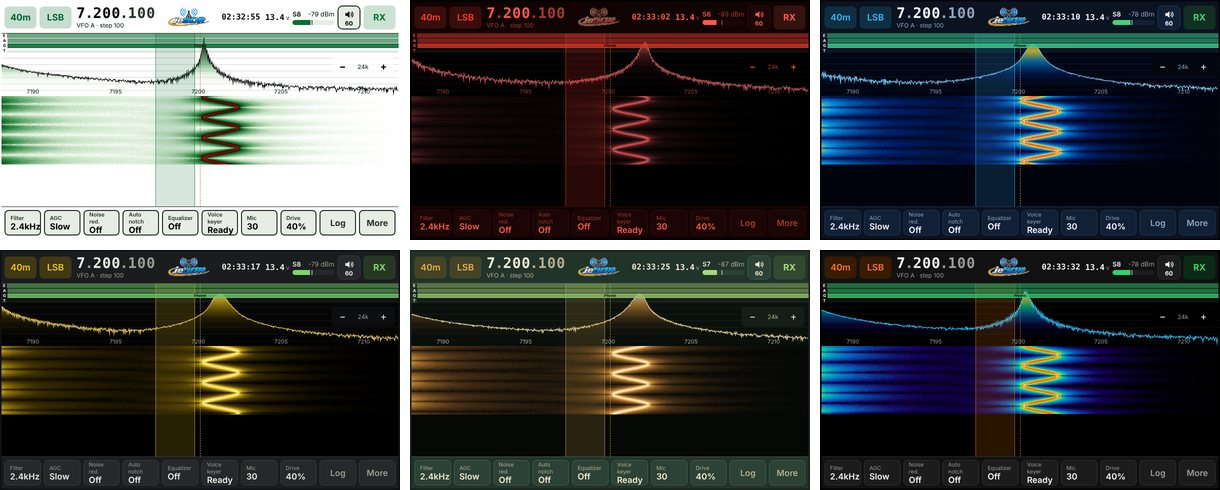
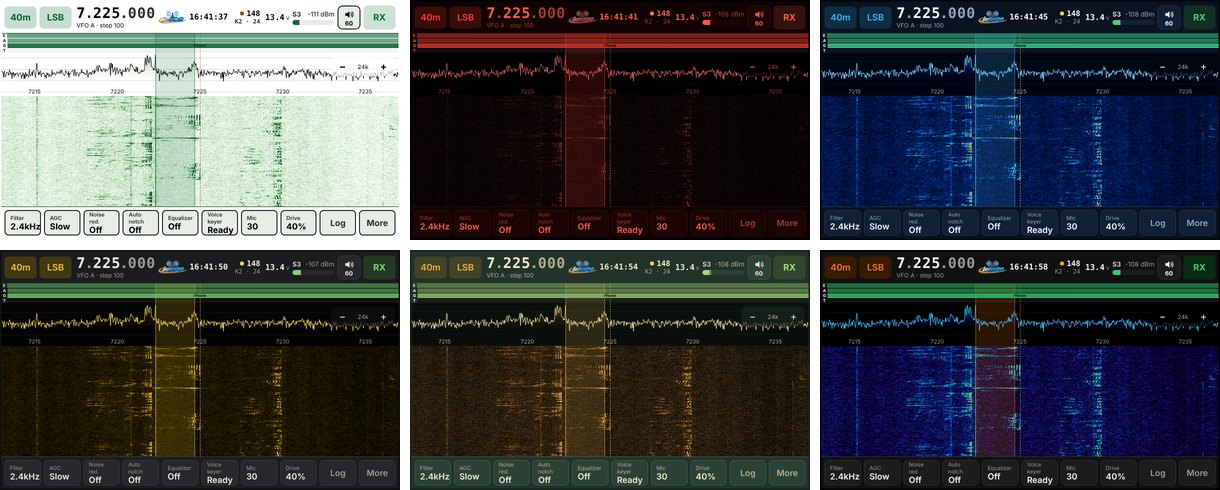
index

diff --git a/index.html b/index.html
@@ -81,6 +81,10 @@
     <p class="sub">The same screen on the radio's touchscreen, a laptop, a tablet or a phone. These are real screens from jeSDR.</p>
     <div class="shots">
       <figure class="wide">
+        <img src="assets/screen-40m.jpg" alt="jeSDR on 40 metres, LSB at 7.225 MHz: the spectrum and waterfall show a busy band with several SSB conversations and carriers, the passband shaded around the dial" width="1280" height="720" loading="lazy">
+        <figcaption><b>A real band.</b> 40 m phone, received by jeSDR: 24 kHz of spectrum and waterfall, the passband you hear shaded, and a tap on a signal tunes to it.</figcaption>
+      </figure>
+      <figure>
         <img src="assets/screen-ft8.jpg" alt="jeSDR in FT8 mode: spectrum and waterfall at the top, decoded FT8 messages below with country names, and the TX controls on the right" width="1280" height="720" loading="lazy">
         <figcaption><b>FT8 in the radio.</b> Decodes with countries and worked-before colors, tap a caller to answer, drag the red TX marker to move your transmit frequency.</figcaption>
       </figure>
@@ -88,8 +92,8 @@
         <img src="assets/screen-cw-outdoor.jpg" alt="jeSDR in CW mode with the Outdoor (POTA) theme: white background, bold black text, the CW decoder and macro buttons" width="1280" height="720" loading="lazy">
         <figcaption><b>Outdoor (POTA) theme.</b> High contrast for sunlight, with the CW decoder, the zero-beat bar and one-tap macros.</figcaption>
       </figure>
-      <figure>
-        <img src="assets/screen-themes.jpg" alt="Six jeSDR themes side by side: Outdoor (POTA), Night (red), Icom style, Elecraft style, Heathkit style and Yaesu style" width="1220" height="490" loading="lazy">
+      <figure class="wide">
+        <img src="assets/screen-themes.jpg" alt="Six jeSDR themes on the same 40 m band: Outdoor (POTA), Night (red), Icom style, Elecraft style, Heathkit style and Yaesu style" width="1220" height="490" loading="lazy">
         <figcaption><b>Twelve themes,</b> from Night (red) for the dark to Icom, Yaesu, Kenwood, Elecraft and Heathkit styles.</figcaption>
       </figure>
     </div>
